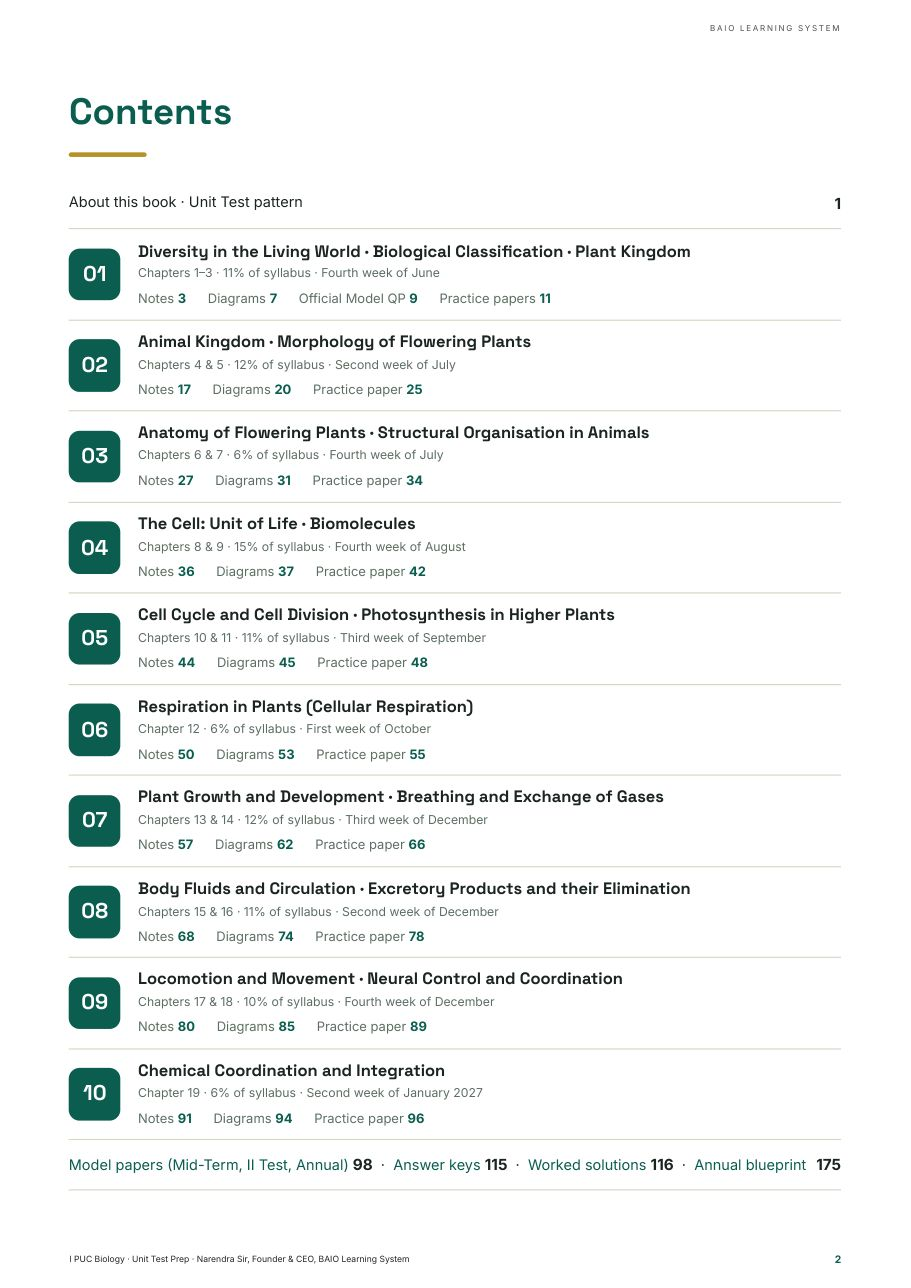
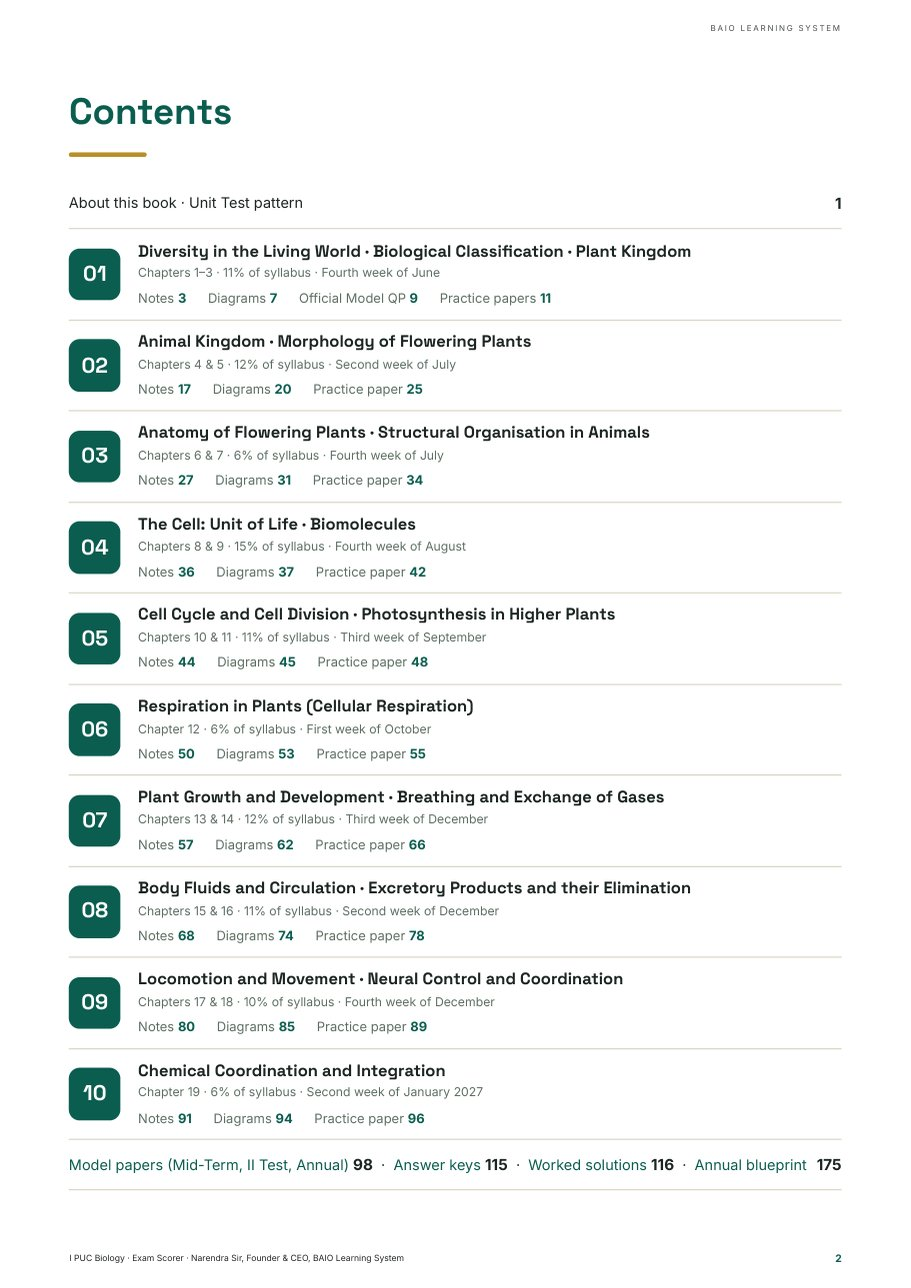
Rename the Biology books to Exam Scorer on the (hidden) shop page
Title, description, image alt text and order message now say
'I PUC Biology Exam Scorer' / 'II PUC Biology Exam Scorer'. Cover,
sample-page and banner images re-rendered from the renamed books.

Claude-Session: https://claude.ai/code/session_018C4n4vzEMqcAsnHenBCffi

diff --git a/biology-prep-books.html b/biology-prep-books.html
@@ -7,8 +7,8 @@
 <meta name="robots" content="noindex">
 <meta name="theme-color" content="#0B1B14">
 <link rel="apple-touch-icon" href="apple-touch-icon.png">
-<title>Biology Unit Test Prep Books — ₹50 | BAIO</title>
-<meta name="description" content="I PUC and II PUC Biology Unit Test Prep Books by Narendra Sir: NCERT-based revision notes, important diagrams, official Model Question Papers, practice papers for all 10 Unit Tests, worked solutions, answer keys and blueprints. PDF, ₹50 each.">
+<title>Biology Exam Scorer Books — ₹50 | BAIO</title>
+<meta name="description" content="I PUC and II PUC Biology Exam Scorer Books by Narendra Sir: NCERT-based revision notes, important diagrams, official Model Question Papers, practice papers for all 10 Unit Tests, worked solutions, answer keys and blueprints. PDF, ₹50 each.">
 <script>
 (function(){
   try{
@@ -115,13 +115,13 @@ h2{font-size:15px; font-weight:800; margin:22px 0 8px; color:var(--teal);}
   <header>
     <button class="theme-btn" id="themeToggle" type="button" aria-label="Switch light or dark theme">🌙</button>
     <div class="eyebrow">BAIO Learning System</div>
-    <h1>Biology Unit Test Prep Books</h1>
+    <h1>Biology Exam Scorer Books</h1>
     <p class="tag">I PUC &amp; II PUC &middot; LBA 2026&ndash;27 &mdash; everything for all 10 Unit Tests and the board exam, in one PDF. By Narendra Sir.</p>
   </header>
 
   <div class="banner">
-    <img class="b-dark" src="prep-books-assets/banner-dark.jpg" alt="I PUC and II PUC Biology Unit Test Prep Books, ₹50 per book" width="1080" height="1350">
-    <img class="b-light" src="prep-books-assets/banner-light.jpg" alt="I PUC and II PUC Biology Unit Test Prep Books, ₹50 per book" width="1080" height="1350">
+    <img class="b-dark" src="prep-books-assets/banner-dark.jpg" alt="I PUC and II PUC Biology Exam Scorer Books, ₹50 per book" width="1080" height="1350">
+    <img class="b-light" src="prep-books-assets/banner-light.jpg" alt="I PUC and II PUC Biology Exam Scorer Books, ₹50 per book" width="1080" height="1350">
   </div>
 
   <div class="tabs" role="tablist" aria-label="Choose your book">
@@ -132,7 +132,7 @@ h2{font-size:15px; font-weight:800; margin:22px 0 8px; color:var(--teal);}
   <!-- ================= I PUC ================= -->
   <section id="book-pu1" role="tabpanel" aria-labelledby="tab-pu1">
     <div class="hero">
-      <img src="prep-books-assets/pu1/cover.jpg" alt="Book cover: I PUC Biology Unit Test Prep Book" width="911" height="1288">
+      <img src="prep-books-assets/pu1/cover.jpg" alt="Book cover: I PUC Biology Exam Scorer" width="911" height="1288">
       <div>
         <div class="price">&#8377;50</div>
         <div class="per">One-time payment &middot; 178-page PDF</div>
@@ -165,7 +165,7 @@ h2{font-size:15px; font-weight:800; margin:22px 0 8px; color:var(--teal);}
   <!-- ================= II PUC ================= -->
   <section id="book-pu2" role="tabpanel" aria-labelledby="tab-pu2" hidden>
     <div class="hero">
-      <img src="prep-books-assets/pu2/cover.jpg" alt="Book cover: II PUC Biology Unit Test Prep Book" width="911" height="1288">
+      <img src="prep-books-assets/pu2/cover.jpg" alt="Book cover: II PUC Biology Exam Scorer" width="911" height="1288">
       <div>
         <div class="price">&#8377;50</div>
         <div class="per">One-time payment &middot; 145-page PDF</div>
@@ -263,7 +263,7 @@ h2{font-size:15px; font-weight:800; margin:22px 0 8px; color:var(--teal);}
   });
 
   var UPI_ID = 'paytm.s4qa42a@pty';
-  var BOOKS = { pu1: 'I PUC Biology Unit Test Prep Book', pu2: 'II PUC Biology Unit Test Prep Book' };
+  var BOOKS = { pu1: 'I PUC Biology Exam Scorer', pu2: 'II PUC Biology Exam Scorer' };
   var current = 'pu1';
   function choose(b, scroll){
     current = b;
